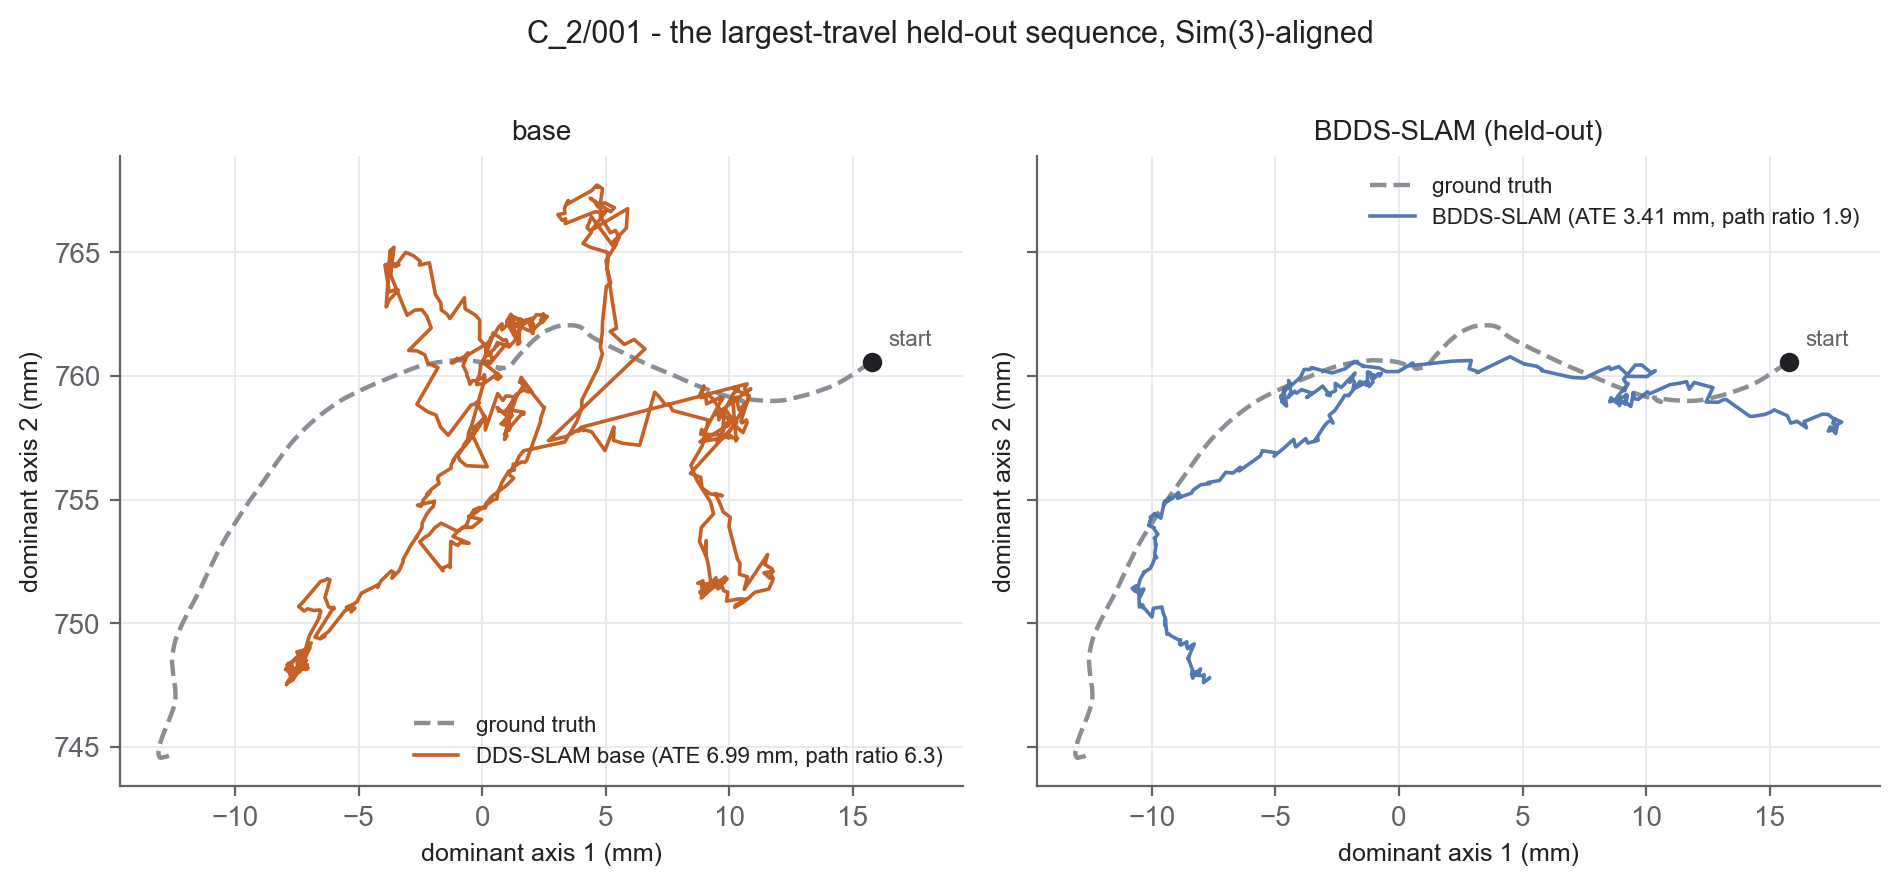
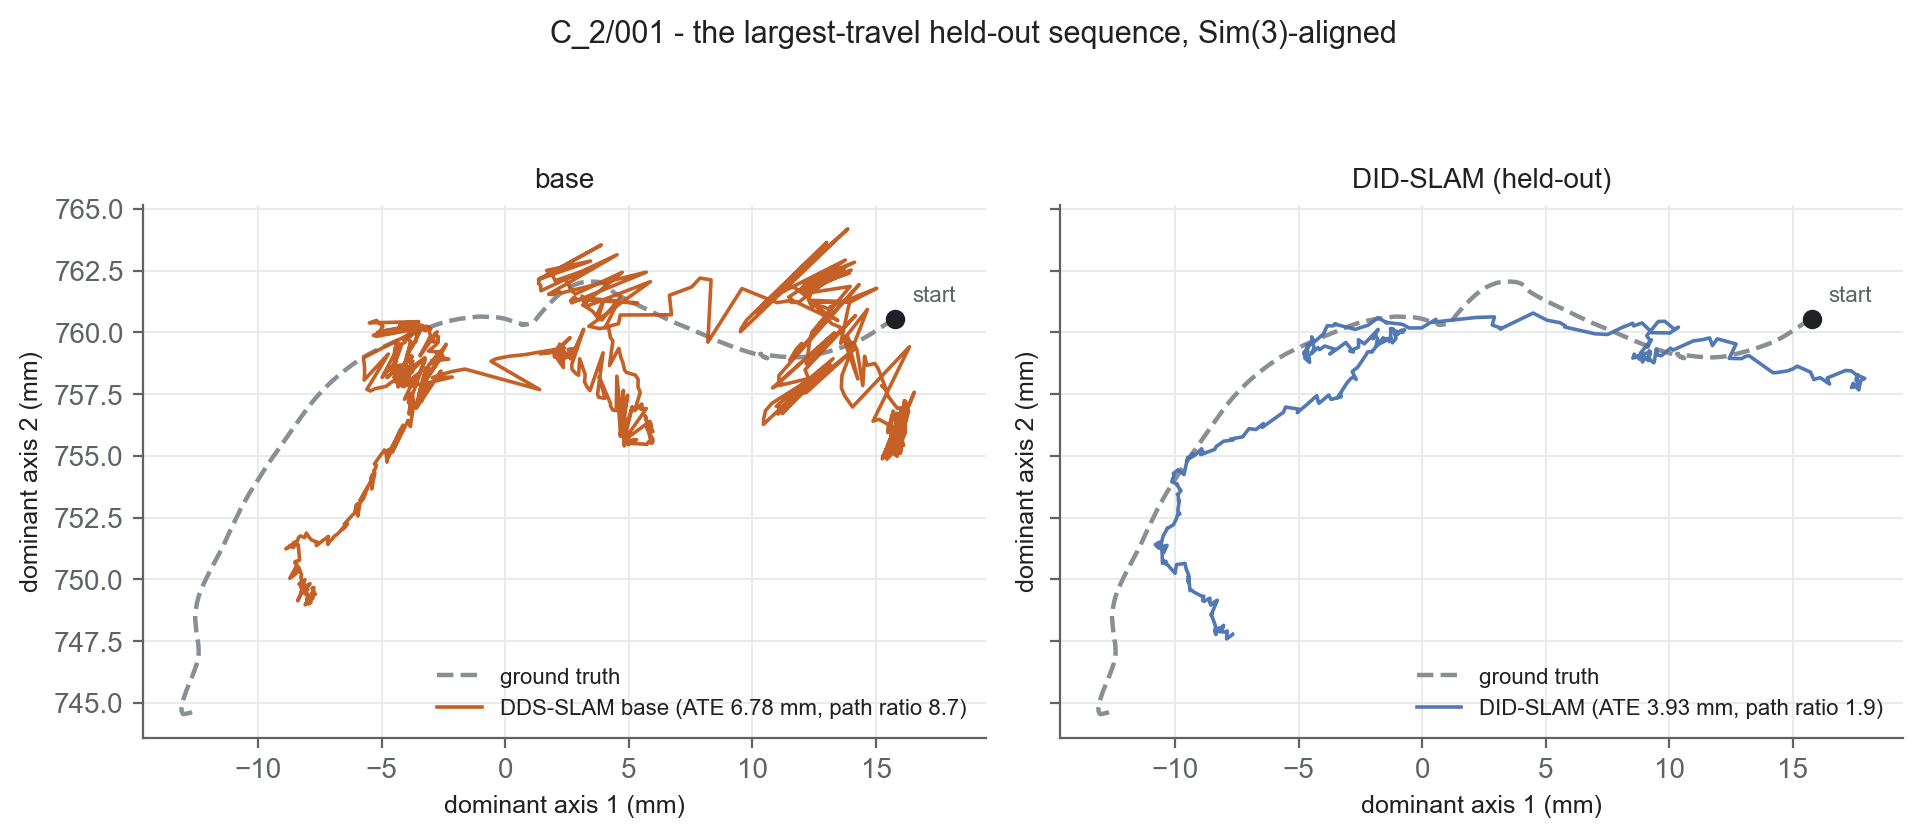
figures: vertical render grid, DID-SLAM naming + correct base on the C2 trajectory
fig_render_compare (Fig 19): transposed to a vertical layout -- 7 rows (GT + 6
systems) x 3 columns (frames), 1042x1261. Same frame selection (59/214/394).

bdds_traj_c2 (Fig 17): renamed BDDS-SLAM -> DID-SLAM, and fixed a real defect
found while renaming. The figure plotted the CONTROLLED ABLATION base
(est from rect_bestbase_extra, labelled "ATE 6.99 mm, path ratio 6.3") while its
caption in the thesis claims the base accumulates 8.7x -- the BENCHMARK base.
Figure and caption disagreed. It now loads the benchmark base (DDS-SLAM Bench/
C2_001_base_s0), matching the canonical tables. The DID label was also stale
(3.41 mm; the run is 3.93). Panel labels are now COMPUTED from the trajectories
via new ate_rmse()/path_ratio() helpers, so they cannot drift from the tables
again. Verified output: base 6.78 mm / 8.7x, DID-SLAM 3.93 mm / 1.9x -- exactly
the table and caption values.

gen_annotation_inputs (new): renders the five raw left-camera input frames behind
fig_annotation_comparison (Fig 6), same order and labels, unannotated. Fig 6 has
no committed generator; this one does.

diff --git a/Addons/viz/gen_trajectories.py b/Addons/viz/gen_trajectories.py
@@ -2,8 +2,11 @@
 """Trajectory figures, Sim(3)-aligned, dominant plane.
 1) figures/C1_001_traj_est_vs_gt.png, C2_001_traj_est_vs_gt.png -- DDS-SLAM base (bench drop)
    vs GT: the over-travel signature (fig:bench_traj).
-2) figures/bdds_traj_c2.png -- the headline: GT vs base vs BDDS-full on C_2/001, the -51%
-   held-out sequence, over-travel visibly removed (ratio 6.3 -> 1.9)."""
+2) figures/bdds_traj_c2.png -- the headline: GT vs base vs DID-SLAM on C_2/001, the
+   largest-travel held-out sequence, over-travel visibly removed. The base is the
+   BENCHMARK-staged run (the thesis's canonical base, Tables results_main/results_sota),
+   NOT the controlled ablation base. Panel labels are computed from the trajectories, so
+   they cannot drift from the tables."""
 import os
 import numpy as np
 import matplotlib
@@ -34,6 +37,20 @@ def sim3(est_xyz, gt_xyz):
 
 def load_est(p): return np.loadtxt(p)[:, [3, 7, 11]]
 def load_gt(p): return np.loadtxt(p, comments='#')[:, 1:4]
+
+def ate_rmse(aligned, gt):
+    """Sim(3) ATE RMSE in mm (aligned/gt are metres, 1:1 paired)."""
+    n = min(len(aligned), len(gt))
+    e = np.linalg.norm(gt[:n] - aligned[:n], axis=1)
+    return float(np.sqrt((e ** 2).mean()) * 1000.0)
+
+
+def path_ratio(aligned, gt):
+    """est/GT path-length ratio after Sim(3) alignment (scale already applied)."""
+    L = lambda z: float(np.linalg.norm(np.diff(z, axis=0), axis=1).sum())
+    n = min(len(aligned), len(gt))
+    return L(aligned[:n]) / L(gt[:n])
+
 
 def dom_axes(gt):
     v = gt - gt.mean(0)
@@ -66,15 +83,18 @@ for snip, ratio in [('C1', 8.11), ('C2', 8.66)]:
     print(f"wrote {snip}_001_traj_est_vs_gt.png")
     plt.close(fig)
 
-# ---- 2) headline: C2 GT vs base vs BDDS ----
+# ---- 2) headline: C2 GT vs benchmark base vs DID-SLAM ----
 gt = load_gt(GTP['C2'])
-base = load_est(os.path.join(REBASE, "C2_001_abl_base_s0", "est_c2w_data.txt"))
-bdds = load_est(os.path.join(FINAL, "C2_001_calm_v3gate_s0", "est_c2w_data.txt"))
+base = load_est(os.path.join(BENCH, "C2_001_base_s0", "est_c2w_data.txt"))
+did = load_est(os.path.join(FINAL, "C2_001_calm_v3gate_s0", "est_c2w_data.txt"))
 ba, ga = sim3(base, gt)
-oa, _ = sim3(bdds, gt)
+oa, _ = sim3(did, gt)
+lab = lambda name, a: f'{name} (ATE {ate_rmse(a, ga):.2f} mm, path ratio {path_ratio(a, ga):.1f})'
+print('C2 base  ->', lab('base', ba))
+print('C2 DID   ->', lab('DID-SLAM', oa))
 fig, (ax1, ax2) = plt.subplots(1, 2, figsize=(9.6, 4.4), dpi=200, sharex=True, sharey=True)
-panel(ax1, ga, [('DDS-SLAM base (ATE 6.99 mm, path ratio 6.3)', ba, WARM)], 'base')
-panel(ax2, ga, [('BDDS-SLAM (ATE 3.41 mm, path ratio 1.9)', oa, BLUE)], 'BDDS-SLAM (held-out)')
+panel(ax1, ga, [(lab('DDS-SLAM base', ba), ba, WARM)], 'base')
+panel(ax2, ga, [(lab('DID-SLAM', oa), oa, BLUE)], 'DID-SLAM (held-out)')
 fig.suptitle('C_2/001 - the largest-travel held-out sequence, Sim(3)-aligned', fontsize=11, color=INK)
 fig.tight_layout()
 fig.savefig(os.path.join(FIG, "bdds_traj_c2.png"), bbox_inches='tight', facecolor='white')

diff --git a/Addons/viz/gen_render_compare.py b/Addons/viz/gen_render_compare.py
@@ -1,6 +1,7 @@
 #!/usr/bin/env python
 """figures/fig_render_compare.png -- three C_2/001 frames rendered by every render-capable
-system, 3 rows (frames) x 7 columns (GT + 6 systems). PERSEUS is tracking-only and excluded.
+system, laid out vertically: 7 rows (GT + 6 systems) x 3 columns (frames). PERSEUS is
+tracking-only and excluded.
 
 Frame selection: at every SGS keyframe index (the sparsest renderer), compute each model's
 PSNR against the GT frame; score the frame by the MINIMUM PSNR across models (frames every
@@ -94,27 +95,33 @@ def main():
     picks = sorted(picks)
     print('picked:', picks, '| (did, base, min):', [tuple(round(x, 2) for x in stats[i]) for i in picks])
 
-    COLS = ['ground truth', 'DID-SLAM (ours)', 'DDS-SLAM (base)', 'SNI-SLAM',
+    # rows = systems (GT first), columns = the three picked frames
+    ROWS = ['ground truth', 'DID-SLAM (ours)', 'DDS-SLAM (base)', 'SNI-SLAM',
             'SGS-SLAM', 'SemGauss-SLAM', 'Semantic-SuPer']
 
     from PIL import Image, ImageDraw, ImageFont
     F = lambda sz, b=False: ImageFont.truetype(
         r'C:\Windows\Fonts\arial' + ('bd' if b else '') + '.ttf', sz)
-    GAP, PADT, PADL = 6, 30, 86
-    W = PADL + 7 * (TW + GAP) + GAP
-    H = PADT + 3 * (TH + GAP) + GAP
+    GAP, PADT, PADL = 6, 30, 118
+    W = PADL + 3 * (TW + GAP) + GAP
+    H = PADT + 7 * (TH + GAP) + GAP
     img = Image.new('RGB', (W, H), 'white')
     d = ImageDraw.Draw(img)
-    for c, h in enumerate(COLS):
-        d.text((PADL + c * (TW + GAP) + TW // 2, PADT // 2 + 2), h,
+
+    # one column per frame; fetch each frame's stack once
+    stacks = []
+    for idx in picks:
+        stacks.append([cv2.imread(f"{SRC['semgauss']}/{idx}_gt.png")]
+                      + list(model_tiles(idx).values()))
+    for c, idx in enumerate(picks):
+        d.text((PADL + c * (TW + GAP) + TW // 2, PADT // 2 + 2), f'frame {idx}',
                font=F(13, True), fill=(32, 33, 36), anchor='mm')
-    for r, idx in enumerate(picks):
+    for r, name in enumerate(ROWS):
         y = PADT + r * (TH + GAP)
-        d.text((PADL - 10, y + TH // 2), f'frame\n{idx}', font=F(13),
-               fill=(60, 60, 60), anchor='rm', align='right')
-        row = [cv2.imread(f"{SRC['semgauss']}/{idx}_gt.png")] + list(model_tiles(idx).values())
-        for c, tile in enumerate(row):
-            tile = cv2.resize(tile, (TW, TH))
+        d.text((PADL - 10, y + TH // 2), name, font=F(13, r == 1),
+               fill=(32, 33, 36) if r == 1 else (60, 60, 60), anchor='rm')
+        for c in range(len(picks)):
+            tile = cv2.resize(stacks[c][r], (TW, TH))
             img.paste(Image.fromarray(cv2.cvtColor(tile, cv2.COLOR_BGR2RGB)),
                       (PADL + c * (TW + GAP), y))
     img.save(args.out)

diff --git a/Addons/viz/gen_annotation_inputs.py b/Addons/viz/gen_annotation_inputs.py
@@ -1,0 +1,64 @@
+#!/usr/bin/env python
+"""figures/fig_annotation_inputs.png -- the five raw left-camera input frames that
+Figure~\\ref{fig:PromptingComparison} (fig_annotation_comparison.png) overlays with our
+SAM 3-assisted masks and the CRCD-provided masks.
+
+Same five frames, same order and same labels as that figure, shown unannotated so the
+reader can see the source imagery the annotations are judged against. Frames are the
+published CRCD snippets, named by their original episode frame index.
+
+Local usage: python Addons/viz/gen_annotation_inputs.py
+"""
+import argparse
+import os
+
+import cv2
+import numpy as np
+from PIL import Image, ImageDraw, ImageFont
+
+ROOT = r'F:/Datasets/CRCD-Published'
+FRAMES = [
+    ('E·3/002', 5722, 'E_3/snippet_002'),
+    ('E·3/003', 16777, 'E_3/snippet_003'),
+    ('E·3/004', 23760, 'E_3/snippet_004'),
+    ('F·3/002', 19443, 'F_3/snippet_002'),
+    ('F·3/003', 20100, 'F_3/snippet_003'),
+]
+TW, TH = 384, 216
+
+
+def font(sz, bold=False):
+    for p in (r'C:\Windows\Fonts\arial' + ('bd' if bold else '') + '.ttf',):
+        if os.path.exists(p):
+            return ImageFont.truetype(p, sz)
+    return ImageFont.load_default()
+
+
+def main():
+    ap = argparse.ArgumentParser()
+    ap.add_argument('--out', default='figures/fig_annotation_inputs.png')
+    args = ap.parse_args()
+
+    GAP, PADT = 6, 22
+    W = 5 * TW + 4 * GAP
+    H = PADT + TH
+    img = Image.new('RGB', (W, H), 'white')
+    d = ImageDraw.Draw(img)
+
+    for i, (label, idx, rel) in enumerate(FRAMES):
+        p = f'{ROOT}/{rel}/rgb/frame_{idx:06d}.png'
+        im = cv2.imread(p)
+        assert im is not None, p
+        im = cv2.resize(im, (TW, TH), interpolation=cv2.INTER_AREA)
+        x = i * (TW + GAP)
+        img.paste(Image.fromarray(cv2.cvtColor(im, cv2.COLOR_BGR2RGB)), (x, PADT))
+        d.text((x + TW // 2, PADT // 2), f'{label}  frame {idx}', font=font(13, True),
+               fill=(32, 33, 36), anchor='mm')
+
+    os.makedirs(os.path.dirname(args.out), exist_ok=True)
+    img.save(args.out)
+    print('wrote', args.out, img.size)
+
+
+if __name__ == '__main__':
+    main()
